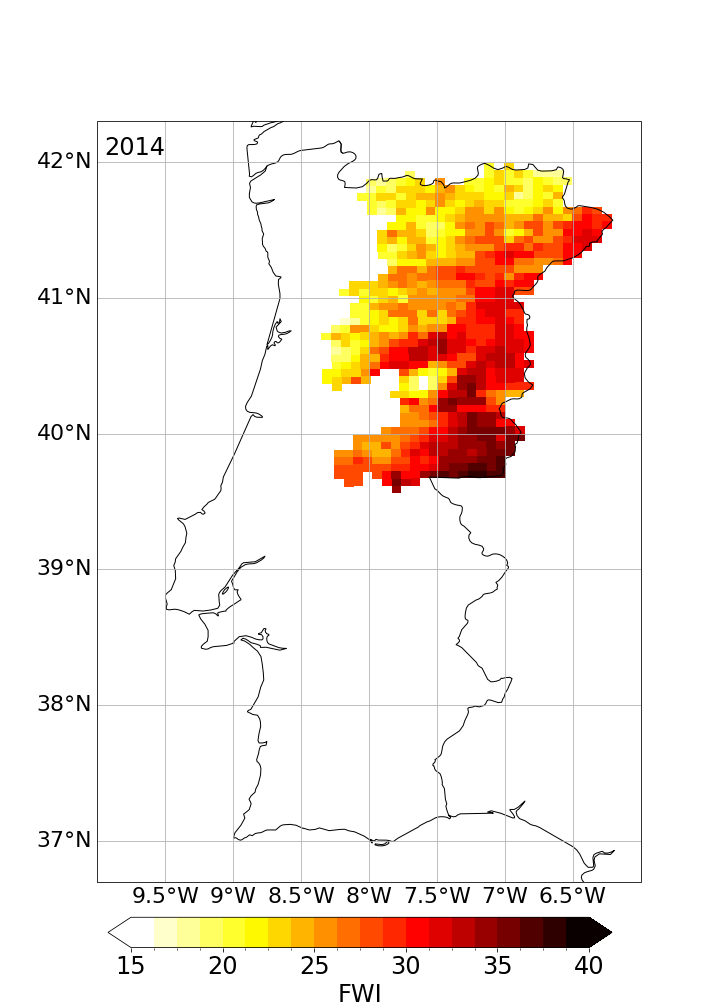
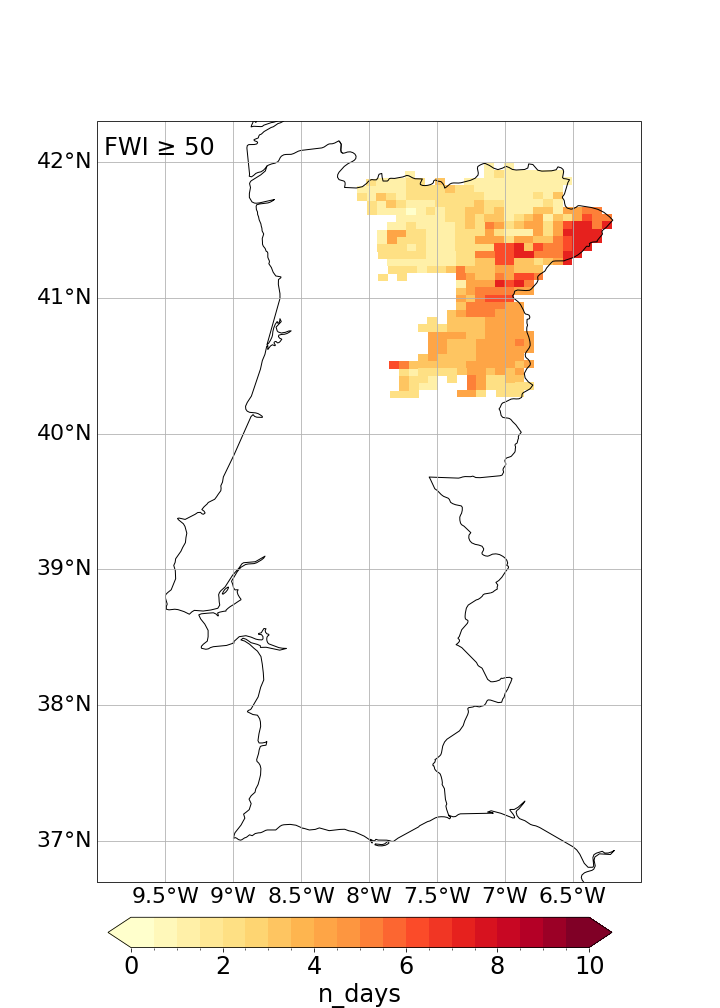
First commit

diff --git a/examples/plots_fwi.py b/examples/plots_fwi.py
@@ -8,8 +8,10 @@ data_dir = '../output/' # in this case data is the computed fwi .nc file
 fwi_dir = data_dir + 'nc_files/'
 output_dir = '../output/plots/'
 fname = 'fwi_test.nc'
-plot_name1 = 'fwi_mean.png'
-plot_name2 = 'ndays_extreme.png'
+plot_name1 = 'fwi_mean_nomask.png'
+plot_name2 = 'fwi_mean.png'
+plot_name3 = 'ndays_veryhigh.png'
+plot_name4 = 'ndays_extreme.png'
 
 ######################################
 # import required python modules
@@ -50,8 +52,9 @@ fwi = np.array(ds['FWI'])
 ######################################
 
 shapefile = gpd.read_file('../data/extras/distritos.shp')
-# "Interior Norte e Centro" region's districts (for masking in the shapefile)
-region = ['Bragança','Vila Real','Guarda','Viseu','Castelo Branco']
+# Three districts comprising part of the "Interior Norte" region of the
+# country are selected
+region = ['Bragança','Vila Real','Guarda']
 mask = np.zeros((Nx, Ny))
 for i_s, name in enumerate(shapefile.NAME_1):
     if name in region:
@@ -68,6 +71,7 @@ for i_s, name in enumerate(shapefile.NAME_1):
 
 fwi_mean = np.nanmean(fwi,axis=0)
 fwi_mean[mask==False] = np.nan
+fwi_mean_nomask = np.nanmean(fwi,axis=0)
 
 where_fwi_threshold = np.zeros((len(fwi_lims),Nt,Nx,Ny)) 
 for i in range(2): # goes through very high and extreme FWI thresholds
@@ -83,6 +87,7 @@ for i in range(2):
 
 fwi_fields = {} # dictionary which stores arrays of the calculations on FWI
 fwi_fields['fwi_mean'] = fwi_mean
+fwi_fields['fwi_mean_nomask'] = fwi_mean_nomask
 fwi_fields['ndays_veryhigh'] = fwi_threshold_ndays[0,:,:]
 fwi_fields['ndays_extreme'] = fwi_threshold_ndays[1,:,:]
 
@@ -91,10 +96,20 @@ fwi_fields['ndays_extreme'] = fwi_threshold_ndays[1,:,:]
 ######################################
 
 my_proj = ccrs.PlateCarree() # map projection
+
+label_name = 'FWI (mean)'
+var = 'fwi_mean_nomask'
+fig_p = output_dir+plot_name1
+cb_lims, delta_c = [[15, 40], 5] # colorbar limits and delta
+fig, ax = make_map(my_proj, fnt_size=22, fig_size=[10, 14])
+plot_fwi_vars(fig=fig, ax=ax, fig_path=fig_p, domain_lims=d_lims, var=var,
+               var_dict=fwi_fields, lon=lon, lat=lat, top_label=label_name,
+               colorbar_lims=cb_lims, colorbar_delta=delta_c)
+
 label_name = 'FWI (mean)'
 var = 'fwi_mean'
 fig_p = output_dir+plot_name2
-cb_lims, delta_c = [[15, 40], 5] # colorbar limits and its' delta
+cb_lims, delta_c = [[15, 40], 5]
 fig, ax = make_map(my_proj, fnt_size=22, fig_size=[10, 14])
 plot_fwi_vars(fig=fig, ax=ax, fig_path=fig_p, domain_lims=d_lims, var=var,
                var_dict=fwi_fields, lon=lon, lat=lat, top_label=label_name,
@@ -103,7 +118,7 @@ plot_fwi_vars(fig=fig, ax=ax, fig_path=fig_p, domain_lims=d_lims, var=var,
 label_name = 'FWI ≥ 38'
 danger_lvl = 'veryhigh'
 var = 'ndays_'+danger_lvl
-fig_p = output_dir+plot_name2
+fig_p = output_dir+plot_name3
 cb_lims, delta_c = [[0, 20], 4]
 fig, ax = make_map(my_proj, fnt_size=22, fig_size=[10, 14])
 plot_fwi_vars(fig=fig, ax=ax, fig_path=fig_p, domain_lims=d_lims, var=var,
@@ -113,7 +128,7 @@ plot_fwi_vars(fig=fig, ax=ax, fig_path=fig_p, domain_lims=d_lims, var=var,
 label_name = 'FWI ≥ 50'
 danger_lvl = 'extreme'
 var = 'ndays_'+danger_lvl
-fig_p = output_dir+plot_name2
+fig_p = output_dir+plot_name4
 cb_lims, delta_c = [[0, 10], 2]
 fig, ax = make_map(my_proj, fnt_size=22, fig_size=[10, 14])
 plot_fwi_vars(fig=fig, ax=ax, fig_path=fig_p, domain_lims=d_lims, var=var,

diff --git a/README.md b/README.md
@@ -35,9 +35,23 @@ generate_fwi_nc.py
 Usage:
 1. Go to ```examples/```
 2. Run ```python generate_fwi_nc.py```
-Input: 
-Output:
-Description:
+
+Input: ```data/wrfout_files/wrfout_test.nc```
+Output: ```output/nc_files/fwi_test.nc```
+Description: Computes and generates a NetCDF FWI file with the same time, lon, lat format as the wrfout. Uses an ```xarray``` dataset to open the wrfout and extract its climate/weather information. For very large wrfouts (e.g. >8GB), using ```xarray.open_dataset``` for data extraction made the runtime decrease dramatically, due to parallelization routines with ```dask``` (```xarray``` dependency), compared to using ```netCDF4.Dataset```. Functions in ```custom_functions``` contain all required tools for the computation of FWI. Emphasys is given to ```compute_fwi```, which calls ```fwi_functions``` (from the pyfwi project, mentioned above) and makes calculation of FWI with numpy arrays. Lastly, a NetCDF4 file is created, storing FWI and its' sub-indices.
+
+```
+plots_fwi.py
+```
+Usage:
+1. Go to ```examples/```
+2. Run ```python generate_fwi_nc.py```
+
+Description: Makes (and saves in ```.PNG``` format) three simple plots with Matplotlib and Cartopy that can be seen below.
+
+```
+
+```
 
 
 
